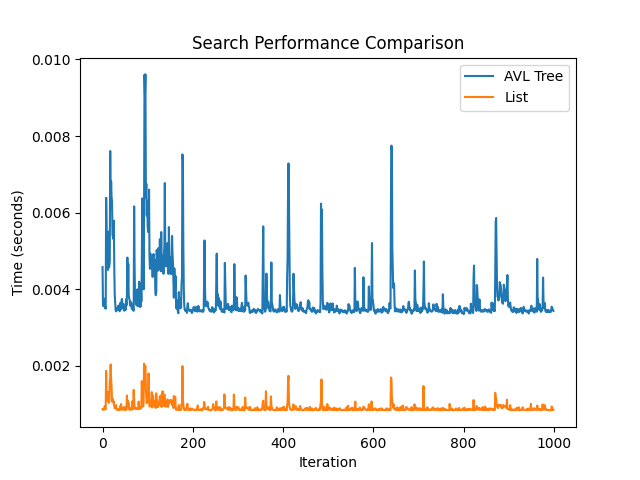
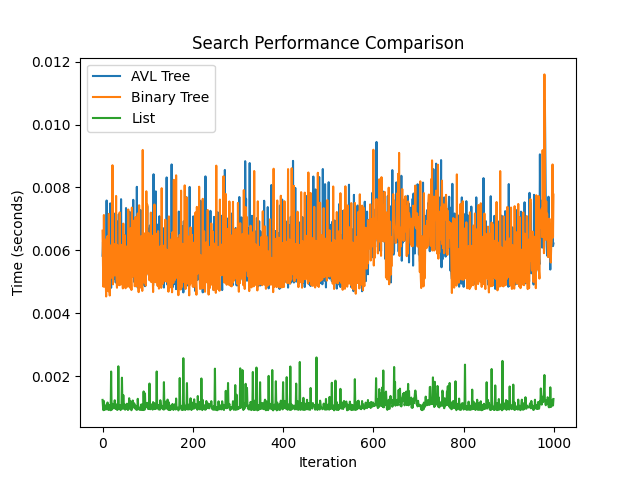
Added binary tree; updated readme

diff --git a/autocomplete-avl-tree/src/binary_tree.py b/autocomplete-avl-tree/src/binary_tree.py
@@ -1,0 +1,77 @@
+class TreeNode:
+    def __init__(self, key):
+        self.left = None
+        self.right = None
+        self.key = key
+
+
+class BinaryTree:
+    def __init__(self):
+        self.root = None
+
+    def _add(self, current_node, key):
+        """
+        Adds a value to the Binary tree.
+        """
+        if key < current_node.key:
+            if current_node.left is None:
+                current_node.left = TreeNode(key)
+            else:
+                self._add(current_node.left, key)
+        elif key > current_node.key:
+            if current_node.right is None:
+                current_node.right = TreeNode(key)
+            else:
+                self._add(current_node.right, key)
+
+    def add(self, key):
+        """
+        Public method to add a value to the Binary tree.
+        """
+        if not self.root:
+            self.root = TreeNode(key)
+        else:
+            self._add(self.root, key)
+
+    def contains(self, value: any) -> bool:
+        """
+        Public method to check if an element is present in the Binary tree.
+        """
+        return self._search_element(self.root, value)
+
+    def _search_element(self, node: TreeNode, value: any) -> bool:
+        """
+        Searches for an element in the Binary tree.
+        """
+        if node is None:
+            return False
+
+        if node.value == value:
+            return True
+        elif value < node.value:
+            return self._search_element(node.left, value)
+        else:
+            return self._search_element(node.right, value)
+
+    def _search_prefix(self, node: TreeNode, prefix: str, results: list):
+        """
+        Searches for words with the given prefix starting from the specified node.
+        """
+        if node is None:
+            return
+
+        if node.value.startswith(prefix):
+            results.append(node.value)
+
+        if node.value >= prefix:
+            self._search_prefix(node.left, prefix, results)
+
+        self._search_prefix(node.right, prefix, results)
+
+    def words_with_prefix(self, prefix: str) -> list:
+        """
+        Finds all words in the AVL tree that start with the given prefix.
+        """
+        results = []
+        self._search_prefix(self.root, prefix, results)
+        return results

diff --git a/autocomplete-avl-tree/src/compare.py b/autocomplete-avl-tree/src/compare.py
@@ -1,14 +1,22 @@
 import time
 import matplotlib.pyplot as plt
 from avl_tree import AVLTree
+from binary_tree import BinaryTree
 from corpus import Corpus
 
 
 # Função para medir o tempo de busca em uma AVL Tree
 def time_avl_search(avl_tree, prefix):
-    start_time = time.time()
+    start_time = time.perf_counter()
     result = avl_tree.words_with_prefix(prefix)
-    end_time = time.time()
+    end_time = time.perf_counter()
+    return len(result), end_time - start_time
+
+
+def time_binary_search(binary_tree, prefix):
+    start_time = time.perf_counter()
+    result = binary_tree.words_with_prefix(prefix)
+    end_time = time.perf_counter()
     return len(result), end_time - start_time
 
 
@@ -33,19 +41,22 @@ def main():
 
     # Criação das estruturas de dados
     avl_tree = AVLTree()
+    binary_tree = BinaryTree()
     word_list = []
 
     for word in corpus.get_words():
         avl_tree.add(word)
+        binary_tree.add(word)
         if word not in word_list:
             word_list.append(word)
 
     # Lista para armazenar os tempos de busca
     avl_times = []
+    binary_times = []
     list_times = []
 
     # Prefixo para busca
-    prefix = "ban"
+    prefix = "a"
 
     # Número de iterações para a busca
     num_iterations = 1000
@@ -55,12 +66,17 @@ def main():
         avl_result, avl_time = time_avl_search(avl_tree, prefix)
         avl_times.append(avl_time)
 
+        # Medir o tempo de busca na AVL Tree
+        binary_result, binary_time = time_binary_search(avl_tree, prefix)
+        binary_times.append(binary_time)
+
         # Medir o tempo de busca na lista
         list_result, list_time = time_list_search(word_list, prefix)
         list_times.append(list_time)
 
     # Plotar os resultados
     plt.plot(avl_times, label="AVL Tree")
+    plt.plot(binary_times, label="Binary Tree")
     plt.plot(list_times, label="List")
     plt.xlabel("Iteration")
     plt.ylabel("Time (seconds)")

diff --git a/autocomplete-avl-tree/README.md b/autocomplete-avl-tree/README.md
@@ -2,6 +2,8 @@
 
 This Python program is designed to store words in an AVLTree data structure, enabling the implementation of an autocomplete feature. Given a prefix, the program returns a list of words found in the tree.
 
+More about the code can be visualized in [this youtube video](https://www.youtube.com/watch?v=o3w2e4P1g_A)
+
 ## Purpose
 The purpose of this program is to demonstrate the implementation of an autocomplete feature using an AVLTree data structure. Words are stored in the tree, and the program allows users to retrieve words based on a given prefix efficiently.
 
